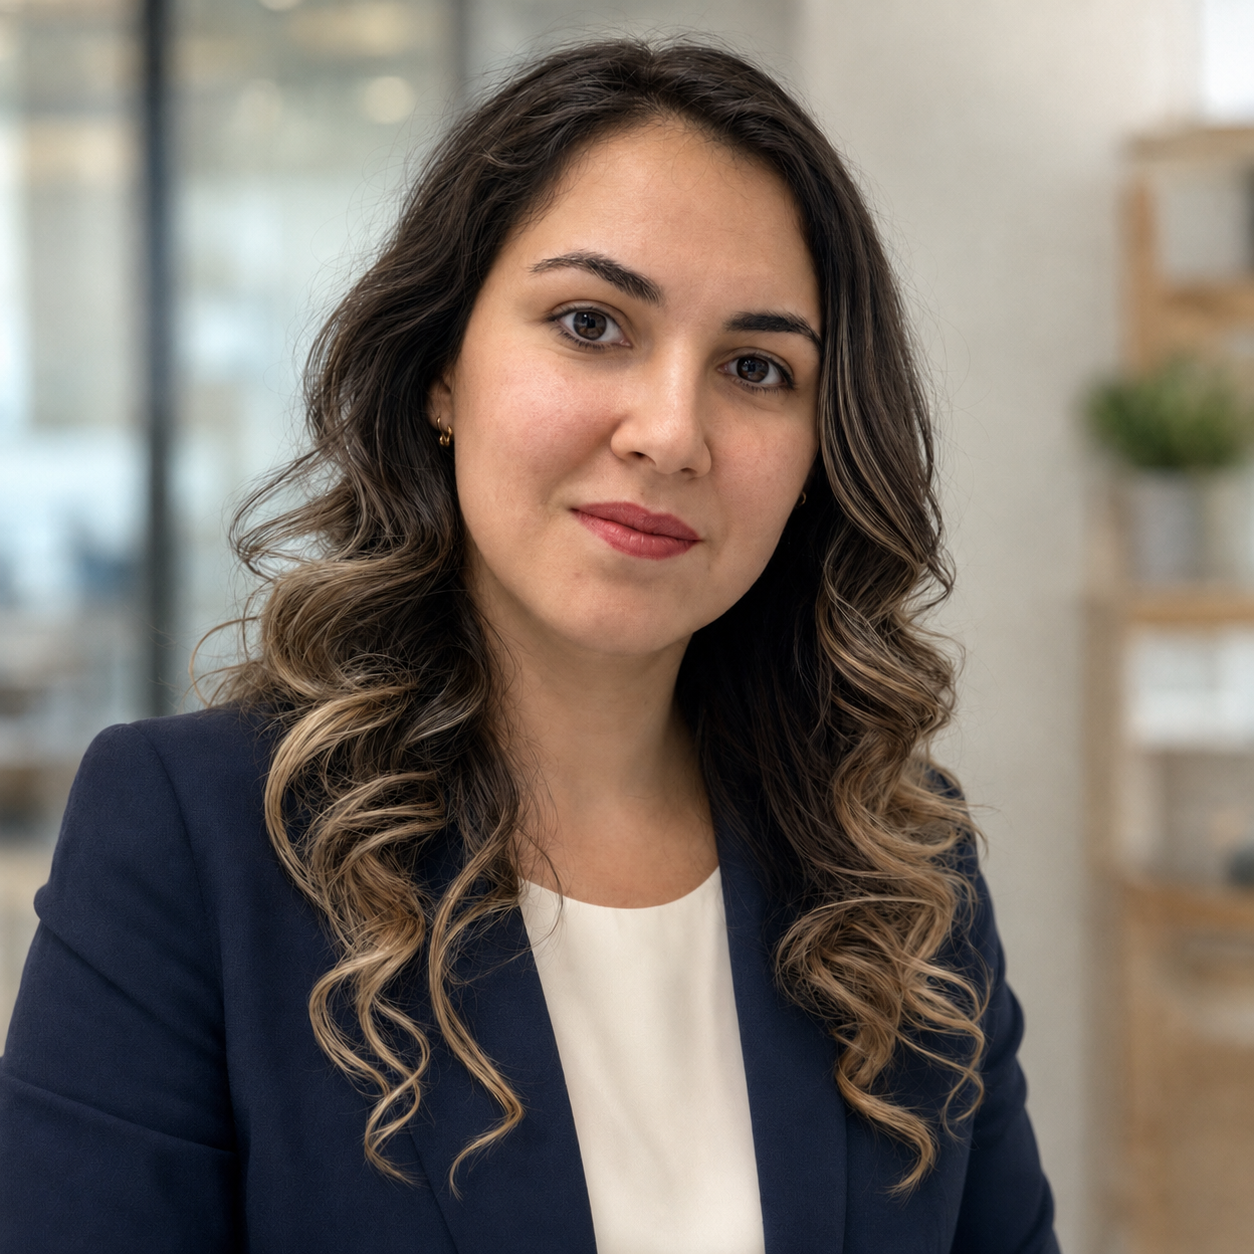
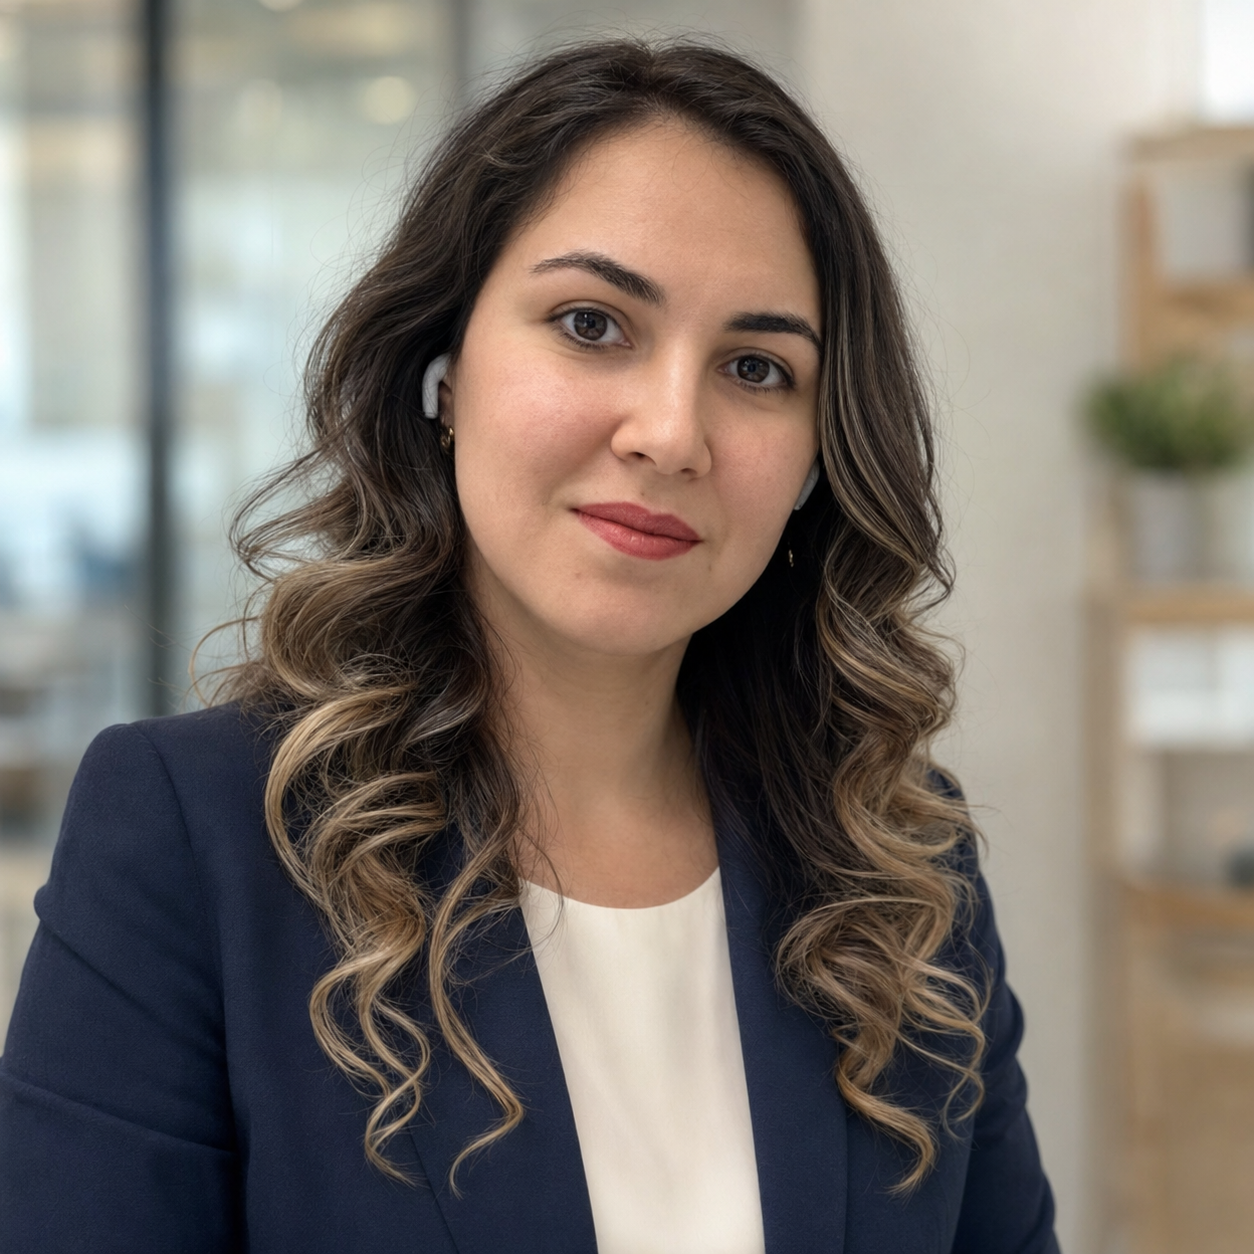
Add files via upload

diff --git a/research.html b/research.html
@@ -34,11 +34,12 @@
       </div>
       <div class="paper-stack">
         <article class="paper jmp-paper">
-          <div class="paper-meta"><span>Education</span><span>Labor</span><span>Gender</span><span>Information</span></div>
-          <h3>Misbeliefs and Education Decisions by Gender</h3>
-          <p class="jmp-question">How much of the gender gap in college completion can be explained by differences in beliefs?</p>
-          <p>Women now earn more bachelor&rsquo;s degrees than men across OECD countries, while men are more likely to leave college without completing a degree. This paper studies whether gender differences in subjective beliefs about graduation help explain that pattern. Using the National Longitudinal Survey of Youth 1997, I compare individuals&rsquo; expected chances of earning a four-year degree with their later enrollment and graduation outcomes.</p>
-          <p>I find that both women and men overestimate their graduation chances, but men&rsquo;s beliefs are noisier signals of academic skill. Men also respond more strongly to those less-informative beliefs when making education decisions. I embed these facts in a general-equilibrium education-choice model in which subjective beliefs determine enrollment while skill and effort determine graduation. The framework shows how gendered misbeliefs can generate over-enrollment, dropout, and the misallocation of talent, and provides a basis for evaluating belief-correction policies and their wage and welfare effects.</p>
+          <div class="paper-meta"><span>Macroeconomics</span><span>Development</span><span>Migration</span><span>Information</span></div>
+          <h3>Information Frictions in Rural-Urban Migration</h3>
+          <p class="coauthor">with <strong><a href="https://www.tassoadamopoulos.com">Tasso Adamopoulos</a></strong></p>
+          <p>We study the role of information frictions in the low and slow out-migration of workers from rural to urban areas in developing countries. Using panel data from Indonesia, we document that migration flows are highly persistent across space and that current district-level migration is correlated with the incomes of previous migrants from the same districts. Using a difference-in-differences design and exploiting natural disaster events at origin as push-shocks, we show that rural districts with improved internet access exhibit higher migration to urban areas.</p>
+          <p>We develop a quantitative spatial model of imperfect information with noisy and dispersed information across rural districts about urban earnings opportunities. Our theory features localized social learning, where rural residents learn about urban opportunities from previous migrants from their own districts. We estimate the model using the panel data from Indonesia and identify information frictions using indirect inference, with easily computable second moments in micro-level datasets. We allow for other migration frictions to disentangle the role of information per se.</p>
+          <p>We find that our theory can account for low aggregate migration and the spatial persistence of migration over time. Information frictions account for about one-third of total migration costs and generate a welfare loss of 7 percent.</p>
         </article>
       </div>
     </section>
@@ -50,10 +51,11 @@
       </div>
       <div class="paper-stack">
         <article class="paper">
-          <div class="paper-meta"><span>Macroeconomics</span><span>Development</span><span>Information</span></div>
-          <h3>Information Frictions in Rural-Urban Migration</h3>
-          <p class="coauthor">with <strong><a href="https://www.tassoadamopoulos.com">Tasso Adamopoulos</a></strong></p>
-          <p>Developing a macroeconomic model to quantify how information frictions shape migration decisions, combining theory with household data analysis.</p>
+          <div class="paper-meta"><span>Education</span><span>Labor</span><span>Gender</span><span>Information</span></div>
+          <h3>Misbeliefs and Education Decisions by Gender</h3>
+          <p class="jmp-question">How much of the gender gap in college completion can be explained by differences in beliefs?</p>
+          <p>Women now earn more bachelor&rsquo;s degrees than men across OECD countries, while men are more likely to leave college without completing a degree. This paper studies whether gender differences in subjective beliefs about graduation help explain that pattern. Using the National Longitudinal Survey of Youth 1997, I compare individuals&rsquo; expected chances of earning a four-year degree with their later enrollment and graduation outcomes.</p>
+          <p>I find that both women and men overestimate their graduation chances, but men&rsquo;s beliefs are noisier signals of academic skill. Men also respond more strongly to those less-informative beliefs when making education decisions. I embed these facts in a general-equilibrium education-choice model in which subjective beliefs determine enrollment while skill and effort determine graduation. The framework shows how gendered misbeliefs can generate over-enrollment, dropout, and the misallocation of talent, and provides a basis for evaluating belief-correction policies and their wage and welfare effects.</p>
         </article>
       </div>
     </section>
